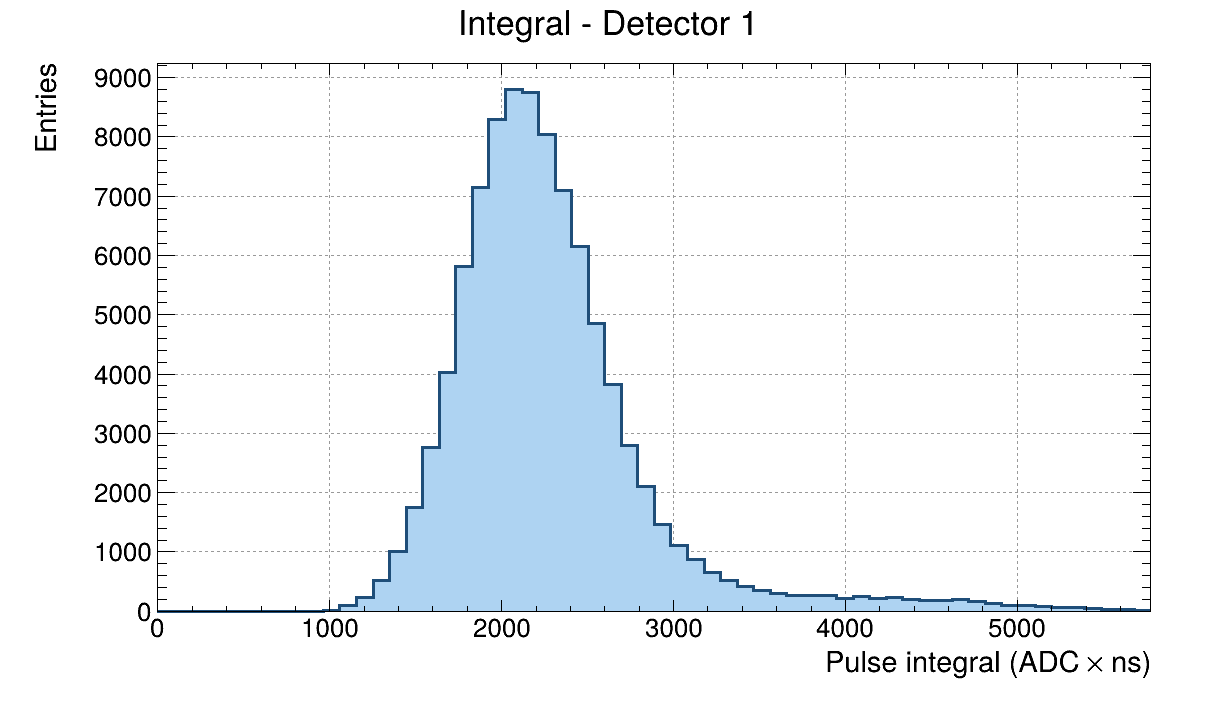
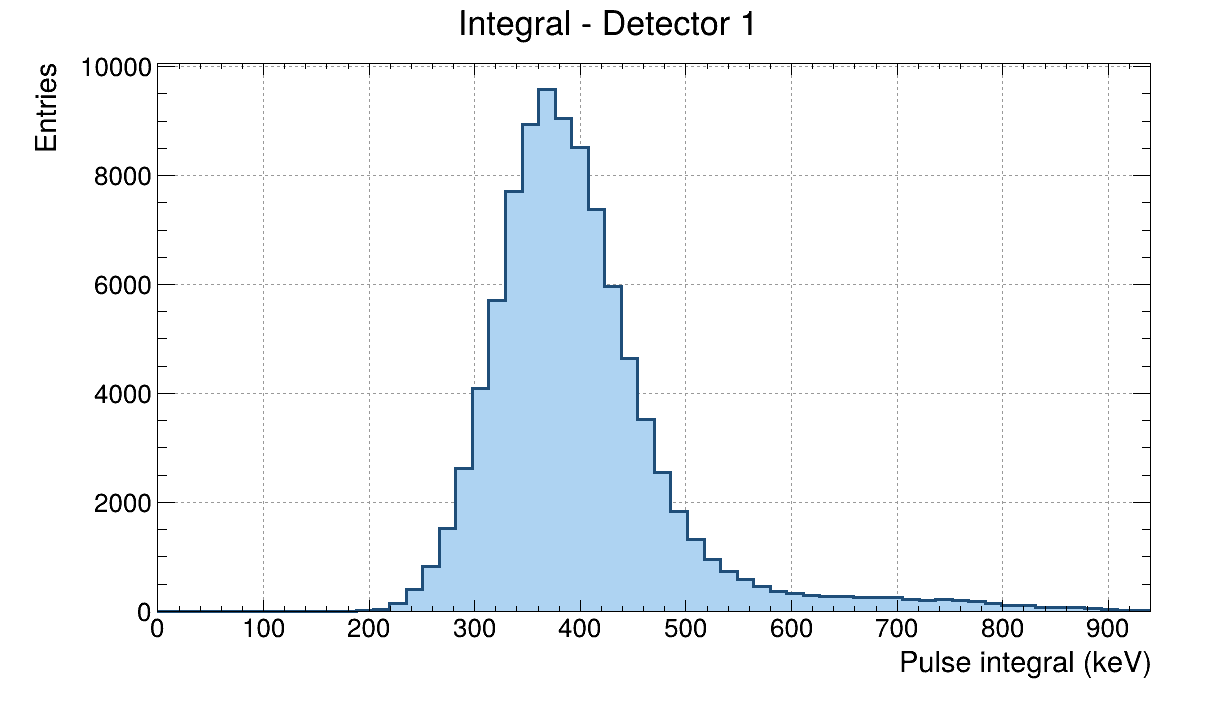
point g and h

diff --git a/code/digital_cfd.py b/code/digital_cfd.py
@@ -71,6 +71,9 @@ def load_config(path: str | Path) -> tuple[dict[str, Any], Path]:
     cfd.setdefault("min_amplitude", 50.0)
     cfd.setdefault("amplitude_bins", 60)
     cfd.setdefault("feature_bins", 60)
+    cfd.setdefault("density_time_bins", 600)
+    cfd.setdefault("density_amplitude_bins", 400)
+    cfd.setdefault("density_amplitude_max", 1000.0)
 
     channels = cfd["channels"]
     if not isinstance(channels, list) or len(channels) != 2:
@@ -99,6 +102,9 @@ def load_config(path: str | Path) -> tuple[dict[str, Any], Path]:
         "min_amplitude",
         "amplitude_bins",
         "feature_bins",
+        "density_time_bins",
+        "density_amplitude_bins",
+        "density_amplitude_max",
     ):
         if key in (
             "baseline_samples",
@@ -106,10 +112,40 @@ def load_config(path: str | Path) -> tuple[dict[str, Any], Path]:
             "bins",
             "amplitude_bins",
             "feature_bins",
+            "density_time_bins",
+            "density_amplitude_bins",
         ):
             cfd[key] = int(cfd[key])
         else:
             cfd[key] = float(cfd[key])
+
+    calibration_source = config.get("energy_calibration")
+    if calibration_source:
+        calibration_path = _resolve(calibration_source, base)
+        if not calibration_path.is_file():
+            raise CfdError(
+                f"Energy calibration file not found: {calibration_path}"
+            )
+        try:
+            calibration = json.loads(
+                calibration_path.read_text(encoding="utf-8")
+            )
+        except json.JSONDecodeError as exc:
+            raise CfdError(
+                f"Invalid JSON in {calibration_path}: {exc.msg}"
+            ) from exc
+        entries = calibration.get("energy_calibration")
+        if not isinstance(entries, list):
+            raise CfdError(
+                f'Missing "energy_calibration" array in {calibration_path}'
+            )
+        calibration_values = {}
+        for entry in entries:
+            calibration_values[int(entry["channel"])] = (
+                float(entry["slope"]),
+                float(entry["intercept"]),
+            )
+        config["energy_calibration"] = calibration_values
 
     return config, config_path
 
@@ -295,6 +331,38 @@ def waveform_features(
     return rise, fall, integral
 
 
+def integral_energy_factors(
+    waveforms: Waveforms,
+    channels: list[int],
+    min_amplitude: float,
+    sample_events: int = 20000,
+) -> dict[int, float]:
+    ratios: dict[int, list[float]] = {channel: [] for channel in channels}
+    tree = waveforms.tree
+    collected = 0
+    for entry in range(int(tree.GetEntries())):
+        if collected >= sample_events:
+            break
+        tree.GetEntry(entry)
+        channel = int(tree.Channel)
+        if channel not in ratios:
+            continue
+        energy = float(tree.Energy)
+        signal = waveforms.current_signal()
+        peak = int(np.argmax(signal))
+        if float(signal[peak]) < min_amplitude or energy <= 0:
+            continue
+        integral = float(signal[max(0, peak - 200) : peak + 1500].sum())
+        if integral <= 0:
+            continue
+        ratios[channel].append(energy / integral)
+        collected += 1
+    return {
+        channel: float(np.median(values)) if values else 1.0
+        for channel, values in ratios.items()
+    }
+
+
 def sequential_time_differences(
     waveforms: Waveforms,
     delay: float,
@@ -344,6 +412,7 @@ def plot_waveform_features(
     output: Path,
     config: dict[str, Any],
     bins: int = 60,
+    energy_scale: dict[int, tuple[float, float]] | None = None,
 ) -> None:
     from plot import apply_style
 
@@ -373,6 +442,10 @@ def plot_waveform_features(
         )
         for column, title, x_title, name in quantities:
             data = np.ascontiguousarray(values[:, column], dtype=np.float64)
+            if column == 2 and energy_scale and channel in energy_scale:
+                scale, offset = energy_scale[channel]
+                data = data * scale + offset
+                x_title = "Pulse integral (keV)"
             limit = float(np.percentile(data, 99.5) * 1.15)
             if limit <= 0:
                 continue
@@ -412,6 +485,95 @@ def plot_waveform_features(
             canvas.Modified()
             canvas.Update()
             canvas.SaveAs(str(output / f"{name}_det{channel + 1}.png"))
+            canvas.Close()
+
+
+def plot_waveform_density(
+    waveforms: Waveforms,
+    output: Path,
+    config: dict[str, Any],
+    min_amplitude: float = 50.0,
+    window: tuple[float, float] = (-100.0, 300.0),
+    time_bins: int = 600,
+    amplitude_bins: int = 400,
+    amplitude_max: float = 1000.0,
+) -> None:
+    from plot import apply_style
+
+    low, high = int(window[0]), int(window[1])
+    offsets = np.arange(low, high + 1, dtype=np.float64)
+    weights = np.ones(offsets.size, dtype=np.float64)
+    histograms = {}
+    amplitudes = {0: [], 1: []}
+    for channel in (0, 1):
+        histogram = ROOT.TH2D(
+            f"h_wave_density_{channel}",
+            f"Waveform density - Detector {channel + 1}",
+            time_bins,
+            low,
+            high,
+            amplitude_bins,
+            -20.0,
+            amplitude_max,
+        )
+        histogram.SetDirectory(0)
+        histograms[channel] = histogram
+
+    tree = waveforms.tree
+    for entry in range(int(tree.GetEntries())):
+        tree.GetEntry(entry)
+        channel = int(tree.Channel)
+        if channel not in histograms:
+            continue
+        signal = waveforms.current_signal()
+        peak = int(np.argmax(signal))
+        amplitude = float(signal[peak])
+        if amplitude < min_amplitude:
+            continue
+        indices = np.arange(low, high + 1) + peak
+        if indices[0] < 0 or indices[-1] >= signal.size:
+            continue
+        values = np.ascontiguousarray(signal[indices], dtype=np.float64)
+        histograms[channel].FillN(offsets.size, offsets, values, weights)
+        amplitudes[channel].append(amplitude)
+
+    for channel in (0, 1):
+        histogram = histograms[channel]
+        if histogram.GetEntries() == 0:
+            continue
+        display_max = float(
+            np.percentile(amplitudes[channel], 99.5) * 1.08
+        )
+        histogram.Smooth(1)
+        histogram.GetYaxis().SetRangeUser(-20.0, display_max)
+        apply_style()
+        for log_z, suffix in ((False, ""), (True, "_log")):
+            canvas = ROOT.TCanvas(
+                f"c_wave_density_{channel}{suffix}",
+                f"Waveform density detector {channel + 1}",
+                config["width"],
+                config["height"],
+            )
+            canvas.SetMargin(0.14, 0.14, 0.13, 0.09)
+            canvas.SetTicks(1, 1)
+            histogram.GetXaxis().SetTitle("Time relative to peak (ns)")
+            histogram.GetYaxis().SetTitle("Amplitude (ADC counts)")
+            histogram.GetZaxis().SetTitle("Entries")
+            histogram.GetXaxis().SetTitleSize(0.045)
+            histogram.GetYaxis().SetTitleSize(0.045)
+            histogram.GetZaxis().SetTitleSize(0.045)
+            histogram.GetXaxis().SetLabelSize(0.040)
+            histogram.GetYaxis().SetLabelSize(0.040)
+            histogram.GetZaxis().SetLabelSize(0.040)
+            if log_z:
+                histogram.SetMinimum(1.0)
+                canvas.SetLogz()
+            histogram.Draw("COLZ")
+            canvas.Modified()
+            canvas.Update()
+            canvas.SaveAs(
+                str(output / f"waveform_density_det{channel + 1}{suffix}.png")
+            )
             canvas.Close()
 
 
@@ -972,6 +1134,17 @@ def run(config: dict[str, Any]) -> dict[str, Any]:
     output = config["output"]
     output.mkdir(parents=True, exist_ok=True)
 
+    energy_scale = None
+    calibration = config.get("energy_calibration")
+    if calibration:
+        factors = integral_energy_factors(
+            waveforms, cfd["channels"], cfd["min_amplitude"]
+        )
+        energy_scale = {
+            channel: (slope * factors[channel], intercept)
+            for channel, (slope, intercept) in calibration.items()
+        }
+
     if config["plot"]["enabled"]:
         for old in output.glob("*.png"):
             old.unlink()
@@ -1007,6 +1180,15 @@ def run(config: dict[str, Any]) -> dict[str, Any]:
             config["plot"],
             cfd["amplitude_bins"],
         )
+        plot_waveform_density(
+            waveforms,
+            output,
+            config["plot"],
+            cfd["min_amplitude"],
+            time_bins=cfd["density_time_bins"],
+            amplitude_bins=cfd["density_amplitude_bins"],
+            amplitude_max=cfd["density_amplitude_max"],
+        )
         plot_waveform_features(
             {
                 0: features_first,
@@ -1015,6 +1197,7 @@ def run(config: dict[str, Any]) -> dict[str, Any]:
             output,
             config["plot"],
             cfd["feature_bins"],
+            energy_scale,
         )
         if histogram is not None and function is not None:
             chi2_ndf = (
